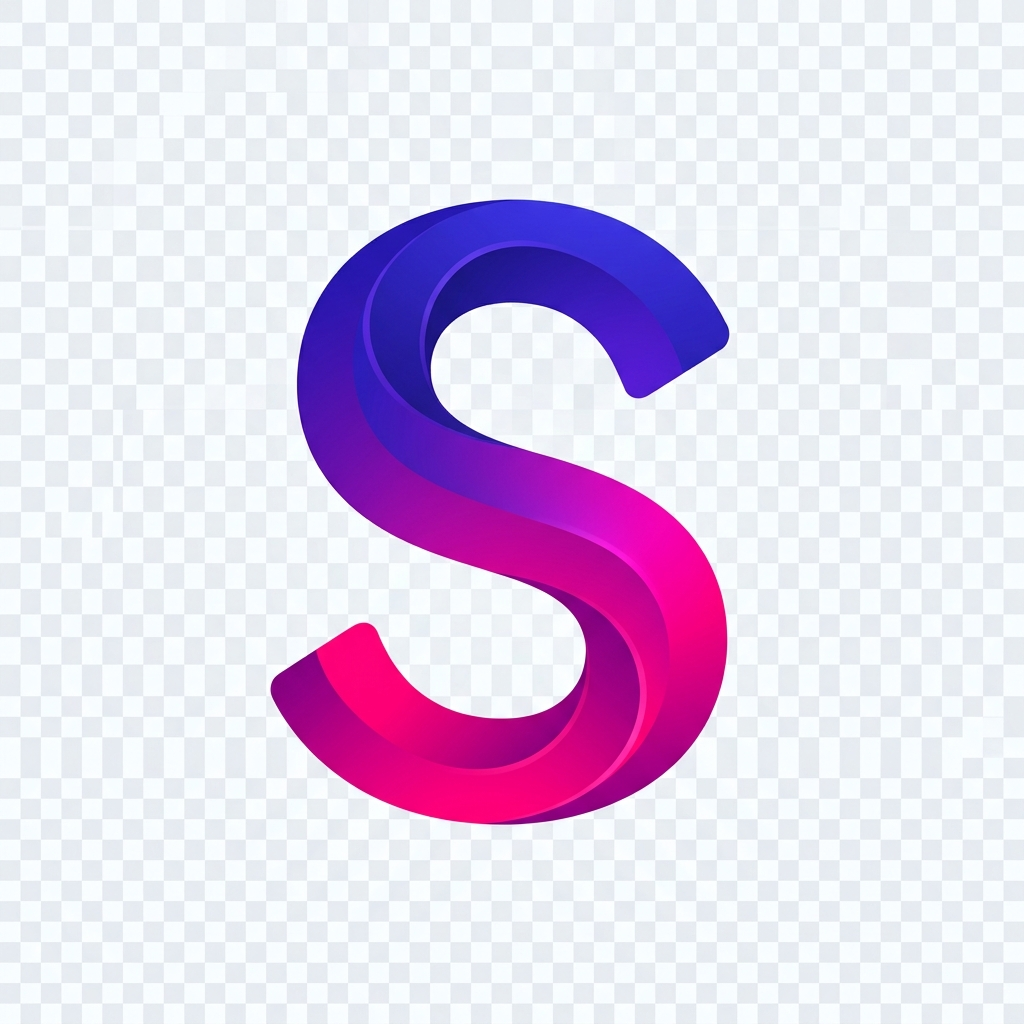
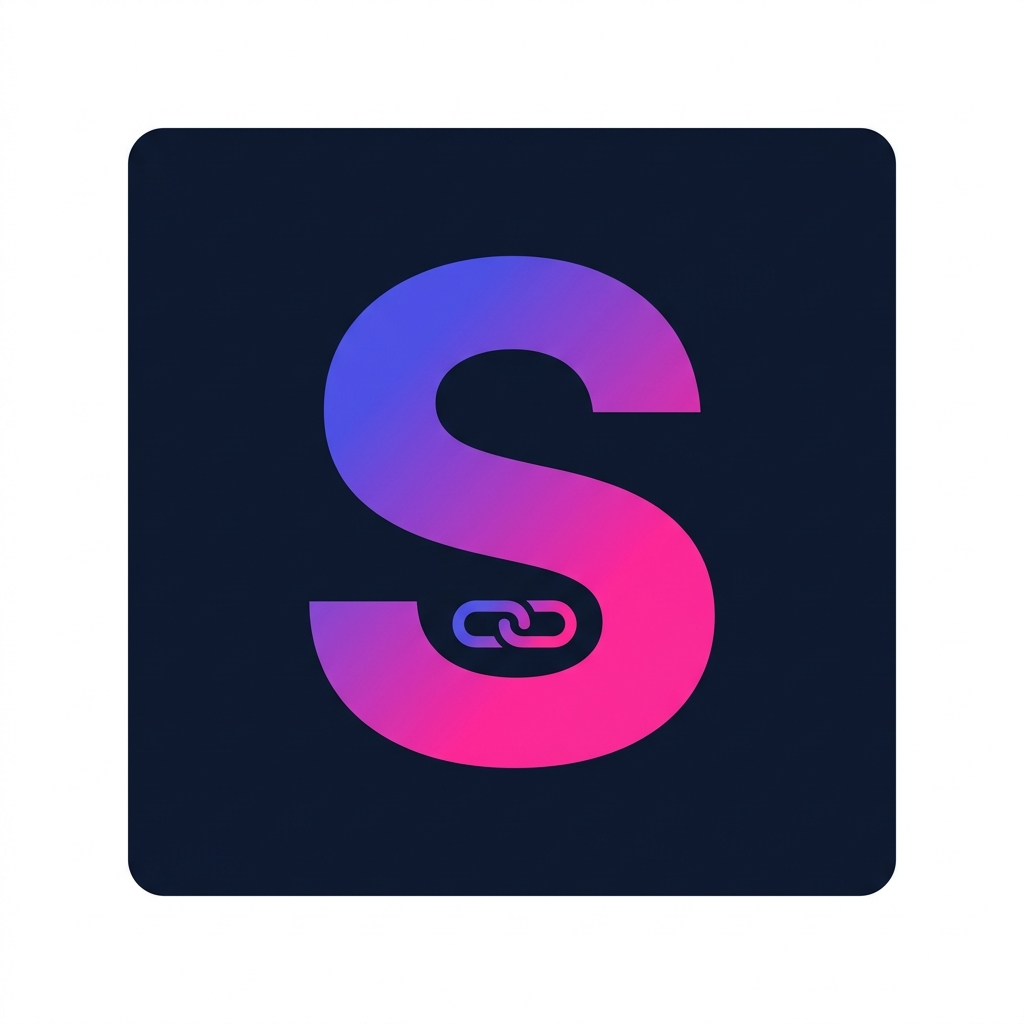
feat: Enhance bio links API response to include user data and improve error handling in frontend

diff --git a/chrome-extension/popup.js b/chrome-extension/popup.js
@@ -52,12 +52,12 @@ document.addEventListener('DOMContentLoaded', async () => {
           throw new Error('Lỗi kết nối tới máy chủ. Thử lại sau.');
         }
 
-        const data = await res.json();
+        const json = await res.json();
 
-        // API trả về { user: { id, email, bioPageSlug, ... }, links: [...] }
-        const userId = data.user?.id;
-        if (!userId) {
-          throw new Error('Không lấy được thông tin user. Liên hệ admin.');
+        // API trả về { success, data: { user, links }, message }
+        const userId = json.data?.user?.id;
+        if (!json.success || !userId) {
+          throw new Error(`Không tìm thấy trang bio "${slug}". Kiểm tra lại slug.`);
         }
 
         // Lưu vào chrome.storage.sync

diff --git a/backend/src/controllers/linkController.js b/backend/src/controllers/linkController.js
@@ -70,10 +70,13 @@ async function getBioLinks(req, res, next) {
       });
     }
 
-    // Trả về danh sách ShortLink kèm theo Product
+    // Trả về user + danh sách ShortLink kèm theo Product
     return res.json({
       success: true,
-      data: result.links,
+      data: {
+        user: result.user,
+        links: result.links
+      },
       message: 'Bio links retrieved successfully'
     });
   } catch (error) {

diff --git a/frontend/src/app/[slug]/page.tsx b/frontend/src/app/[slug]/page.tsx
@@ -44,10 +44,11 @@ async function getBioLinks(slug: string): Promise<ShortLink[] | null> {
     }
 
     const json = await res.json();
-    return json.success ? json.data : null;
+    // API trả về { success, data: { user, links }, message }
+    if (!json.success) return null;
+    return json.data?.links ?? json.data ?? null;
   } catch (error) {
     console.error('Error fetching bio links:', error);
-    // Fallback trả về null để hiển thị màn hình thông báo lỗi thay vì crash
     return null;
   }
 }